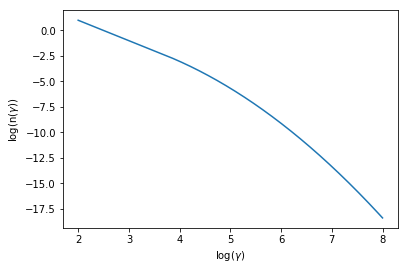
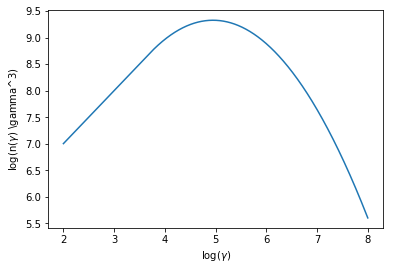
updated docs

diff --git a/doc/user_guide/jet_model_phys_SSC/Jet_example_phys_SSC.rst b/doc/user_guide/jet_model_phys_SSC/Jet_example_phys_SSC.rst
@@ -79,7 +79,7 @@ Each parameter has default values. All the parameters listed are handled by :cla
 .. raw:: html
 
     <i>Table length=11</i>
-    <table id="table47785282576" class="table-striped table-bordered table-condensed">
+    <table id="table47755138448" class="table-striped table-bordered table-condensed">
     <thead><tr><th>name</th><th>par type</th><th>units</th><th>val</th><th>phys. bound. min</th><th>phys. bound. max</th><th>log</th><th>frozen</th></tr></thead>
     <thead><tr><th>str16</th><th>str19</th><th>object</th><th>float64</th><th>float64</th><th>object</th><th>bool</th><th>bool</th></tr></thead>
     <tr><td>N</td><td>electron_density</td><td>1 / cm3</td><td>100.0</td><td>0.0</td><td>None</td><td>False</td><td>False</td></tr>
@@ -227,20 +227,11 @@ investigating the electron distribution
 
 .. code:: ipython3
 
-    p=my_jet.electron_distribution.plot()
-
-
-
-.. image:: Jet_example_phys_SSC_files/Jet_example_phys_SSC_25_0.png
-
-
-.. code:: ipython3
-
     p=my_jet.electron_distribution.plot3p()
 
 
 
-.. image:: Jet_example_phys_SSC_files/Jet_example_phys_SSC_26_0.png
+.. image:: Jet_example_phys_SSC_files/Jet_example_phys_SSC_25_0.png
 
 
 .. code:: ipython3
@@ -256,7 +247,7 @@ investigating the electron distribution
 
 
 
-.. image:: Jet_example_phys_SSC_files/Jet_example_phys_SSC_27_0.png
+.. image:: Jet_example_phys_SSC_files/Jet_example_phys_SSC_26_0.png
 
 
 using log values for electron distribution parameters
@@ -360,7 +351,7 @@ and plot the corresponding SED:
 
 
 
-.. image:: Jet_example_phys_SSC_files/Jet_example_phys_SSC_35_0.png
+.. image:: Jet_example_phys_SSC_files/Jet_example_phys_SSC_34_0.png
 
 
 alternatively, you can call the ``plot_model`` method without passing a
@@ -373,7 +364,7 @@ alternatively, you can call the ``plot_model`` method without passing a
 
 
 
-.. image:: Jet_example_phys_SSC_files/Jet_example_phys_SSC_37_0.png
+.. image:: Jet_example_phys_SSC_files/Jet_example_phys_SSC_36_0.png
 
 
 If you want to have more points on the IC spectrum you can set the numerical  parameters for radiavite fields(see :ref:`jet_numerical_guide' section for more details):
@@ -390,7 +381,7 @@ If you want to have more points on the IC spectrum you can set the numerical  pa
 
 
 
-.. image:: Jet_example_phys_SSC_files/Jet_example_phys_SSC_40_0.png
+.. image:: Jet_example_phys_SSC_files/Jet_example_phys_SSC_39_0.png
 
 
 you can access the same plot, but in the rest frame of the black hole,
@@ -404,7 +395,7 @@ passing the ``frame`` kw to ``src``
 
 
 
-.. image:: Jet_example_phys_SSC_files/Jet_example_phys_SSC_42_0.png
+.. image:: Jet_example_phys_SSC_files/Jet_example_phys_SSC_41_0.png
 
 
 the ``my_plot`` object returned will be built on the fly by the
@@ -457,7 +448,7 @@ to compare the same model after changing a parameter
 
 
 
-.. image:: Jet_example_phys_SSC_files/Jet_example_phys_SSC_47_0.png
+.. image:: Jet_example_phys_SSC_files/Jet_example_phys_SSC_46_0.png
 
 
 saving a plot
@@ -575,7 +566,7 @@ this is the initial value of N
 
 
 we now want to set the value of ``N`` in order that the observed synchrotron flux at a given frequency matches a desired value. 
-For example, assume that we wish to set ``N`` in order that  the synchrotron flux at :math:`10^{15}` Hz is exactly matching the desired value of :math:`10^{-14}` ergs cm-2 s-1. We can accomplish this by using the  method :meth:`.Jet.get_par_by_name()` as follows: 
+For example, assume that we wish to set ``N`` in order that  the synchrotron flux at :math:`10^{15}` Hz is exactly matching the desired value of :math:`10^{-14}` ergs cm-2 s-1. We can accomplish this by using the  method :meth:`.Jet.set_N_from_nuFnu()` as follows: 
 
 .. code:: ipython3
 
@@ -588,6 +579,21 @@ flux at the given frequency
 .. code:: ipython3
 
     my_jet.get_par_by_name('N').val
+
+
+
+
+.. parsed-literal::
+
+    271.77338679726074
+
+
+
+OR
+
+.. code:: ipython3
+
+    my_jet.parameters.N.val
 
 
 
@@ -628,7 +634,7 @@ flux at the given frequency
 
 
 
-.. image:: Jet_example_phys_SSC_files/Jet_example_phys_SSC_76_0.png
+.. image:: Jet_example_phys_SSC_files/Jet_example_phys_SSC_77_0.png
 
 
 as you can see, the synchrotron flux at :math:`10^{15}` Hz is exactly matching the desired value of :math:`10^{-14}` ergs cm-2 s-1.
@@ -842,7 +848,7 @@ Moreover, you can access the corresponding astropy table
 .. raw:: html
 
     <i>Table length=20</i>
-    <table id="table103637935888" class="table-striped table-bordered table-condensed">
+    <table id="table103602755280" class="table-striped table-bordered table-condensed">
     <thead><tr><th>nu</th><th>Sum</th><th>Sync</th><th>SSC</th></tr></thead>
     <thead><tr><th>Hz</th><th>erg / (cm2 s)</th><th>erg / (cm2 s)</th><th>erg / (cm2 s)</th></tr></thead>
     <thead><tr><th>float64</th><th>float64</th><th>float64</th><th>float64</th></tr></thead>
@@ -887,7 +893,7 @@ and also in the ``src`` restframe
 .. raw:: html
 
     <i>Table length=20</i>
-    <table id="table103637960912" class="table-striped table-bordered table-condensed">
+    <table id="table103612139728" class="table-striped table-bordered table-condensed">
     <thead><tr><th>nu</th><th>Sum</th><th>Sync</th><th>SSC</th></tr></thead>
     <thead><tr><th>Hz</th><th>erg / s</th><th>erg / s</th><th>erg / s</th></tr></thead>
     <thead><tr><th>float64</th><th>float64</th><th>float64</th><th>float64</th></tr></thead>
@@ -1067,7 +1073,7 @@ If you want to evaluate the energetic report in non verbose mode:
 .. raw:: html
 
     <i>Table length=33</i>
-    <table id="table103658689424" class="table-striped table-bordered table-condensed">
+    <table id="table103625200272" class="table-striped table-bordered table-condensed">
     <thead><tr><th>name</th><th>type</th><th>units</th><th>val</th></tr></thead>
     <thead><tr><th>str13</th><th>str29</th><th>object</th><th>float64</th></tr></thead>
     <tr><td>U_e</td><td>Energy dens. blob rest. frame</td><td>erg / cm3</td><td>0.0017404342430246782</td></tr>
